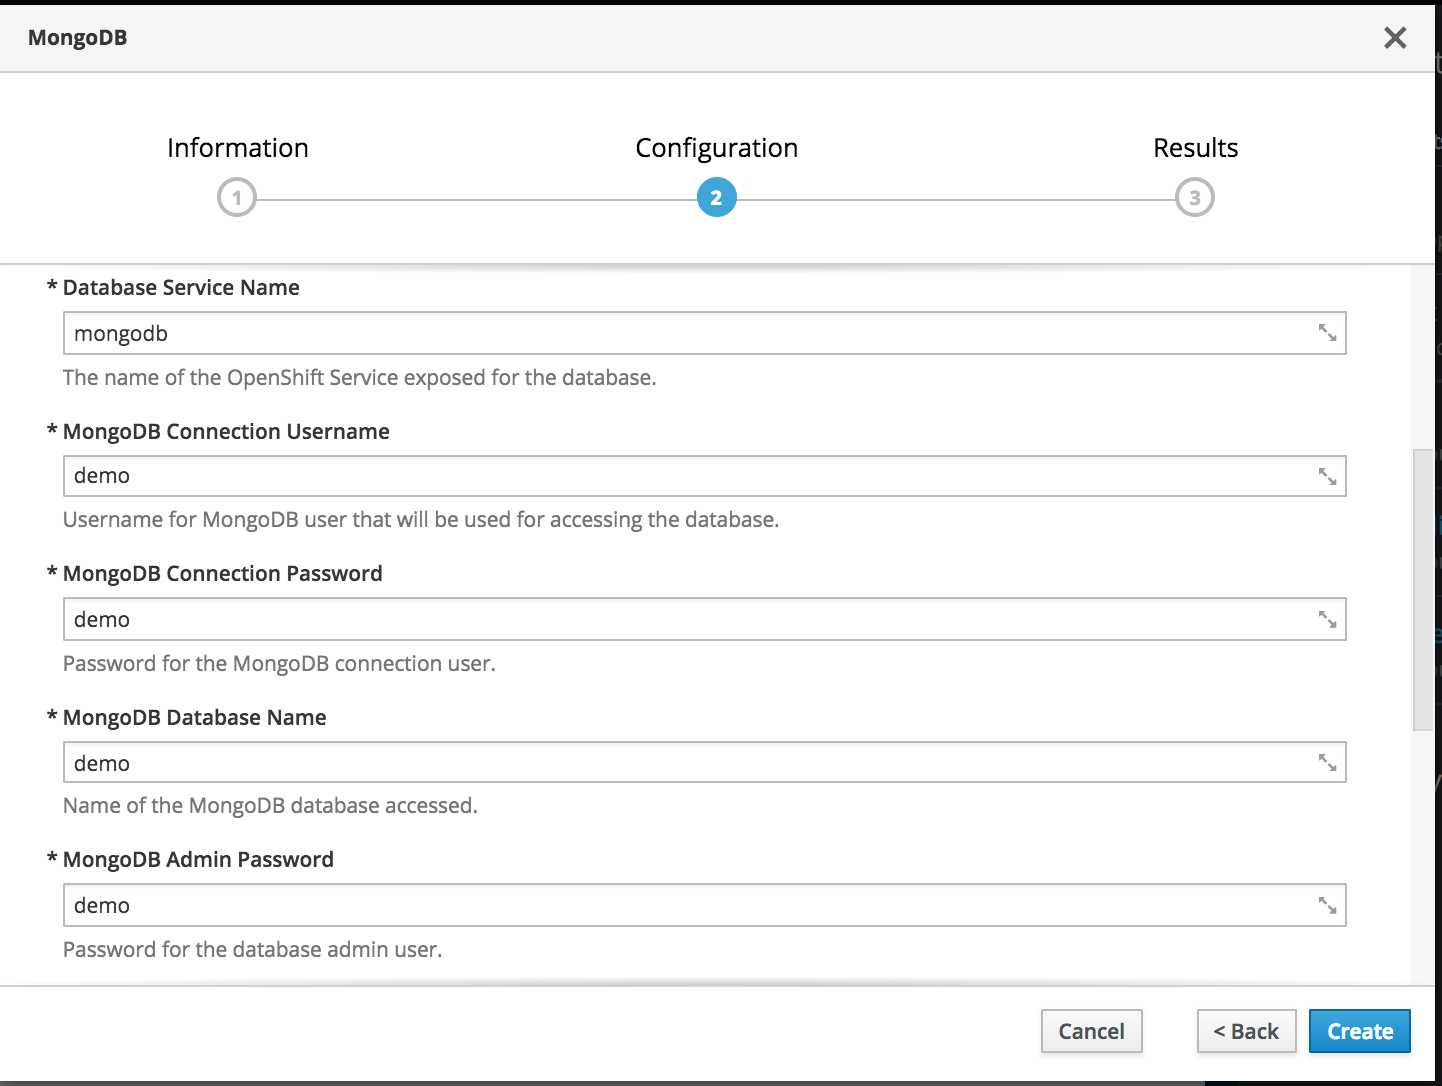
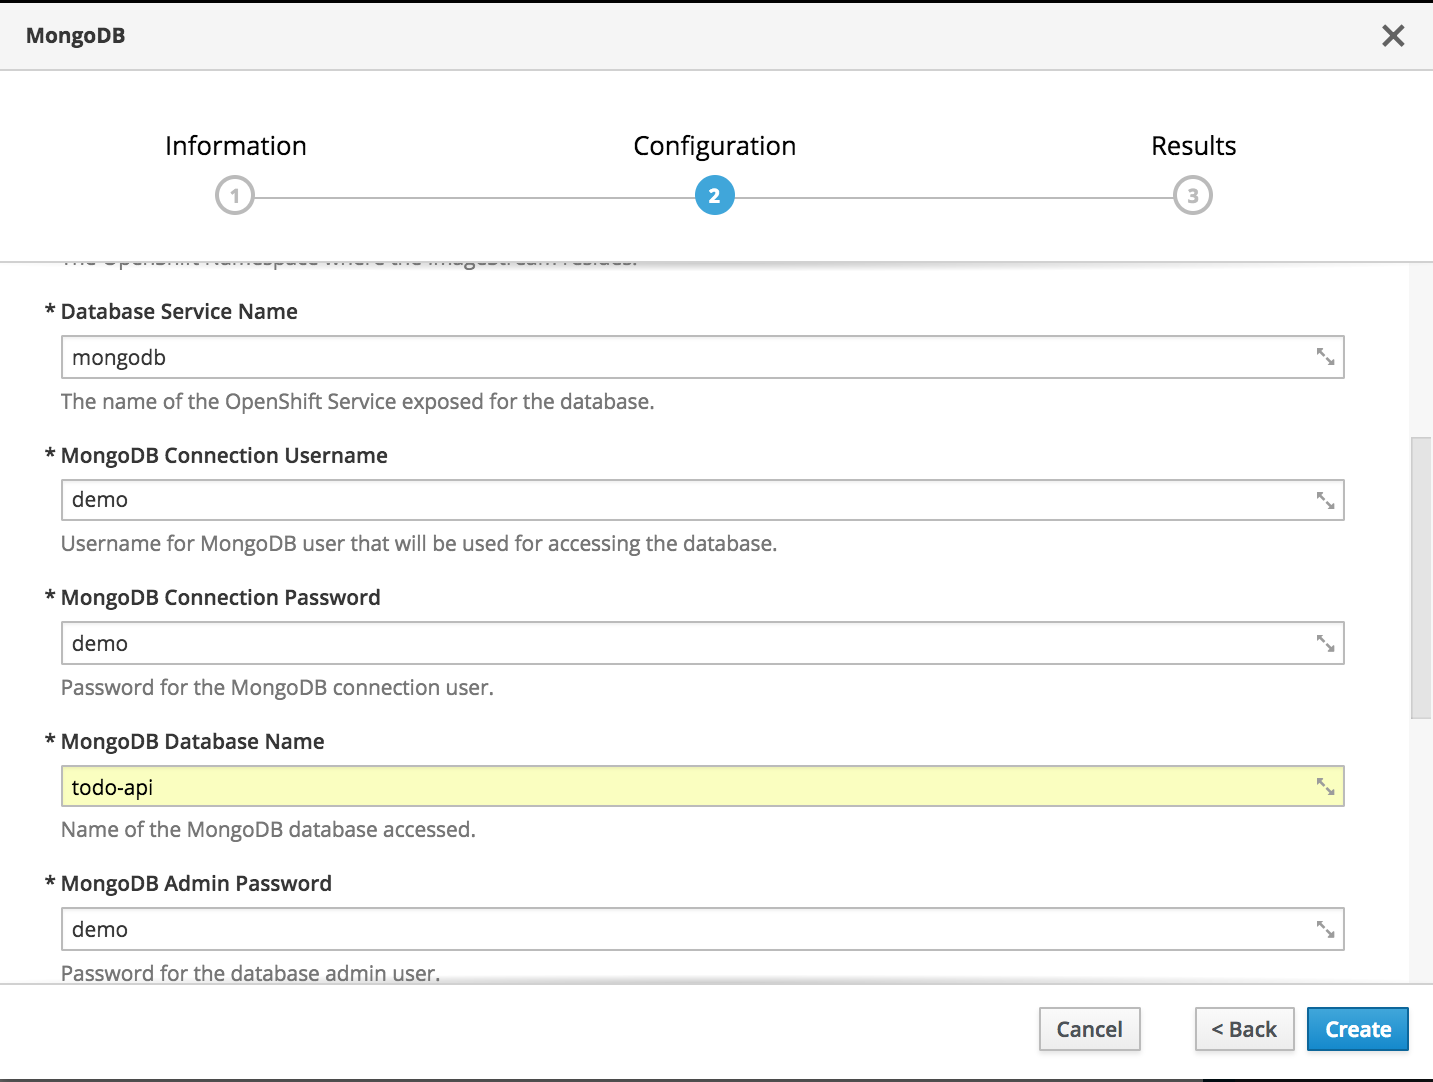
more details

diff --git a/exercises/using_jenkins_pipeline.md b/exercises/using_jenkins_pipeline.md
@@ -47,11 +47,13 @@ You should be able to see something like this
   - Database Service Name = mongodb
   - MongoDB Connection Usernae = demo
   - MongoDB Connection Password = demo
-  - MongoDB Database Name = demo
+  - MongoDB Database Name = todo-api
   - MongoDB Admin Password = demo
 
 
 ![MongoDB template values](images/todo_mongodb2.png)
+
+- Click on Create.
 
 ## Create a new application using NodeJs template
 
@@ -62,6 +64,12 @@ Click "Add to Project", search for NodeJs
 Input the details as shown below. The project should be the project assigned to you.
 
 ![New NodeJs App Details](images/todo_nodejs_details.png)
+
+Click on "advanced options". Scroll to Deployment Configuration and add Environment Variable
+
+```
+PORT = 8080
+```
 
 Click on Create.
 
